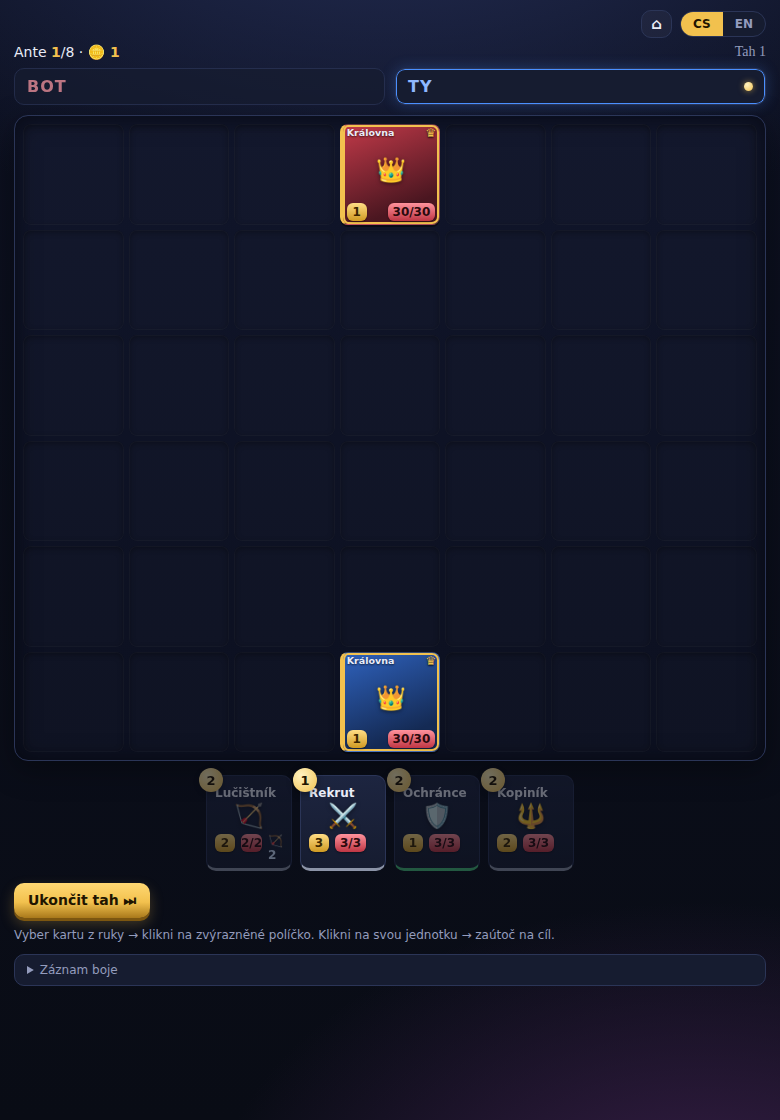
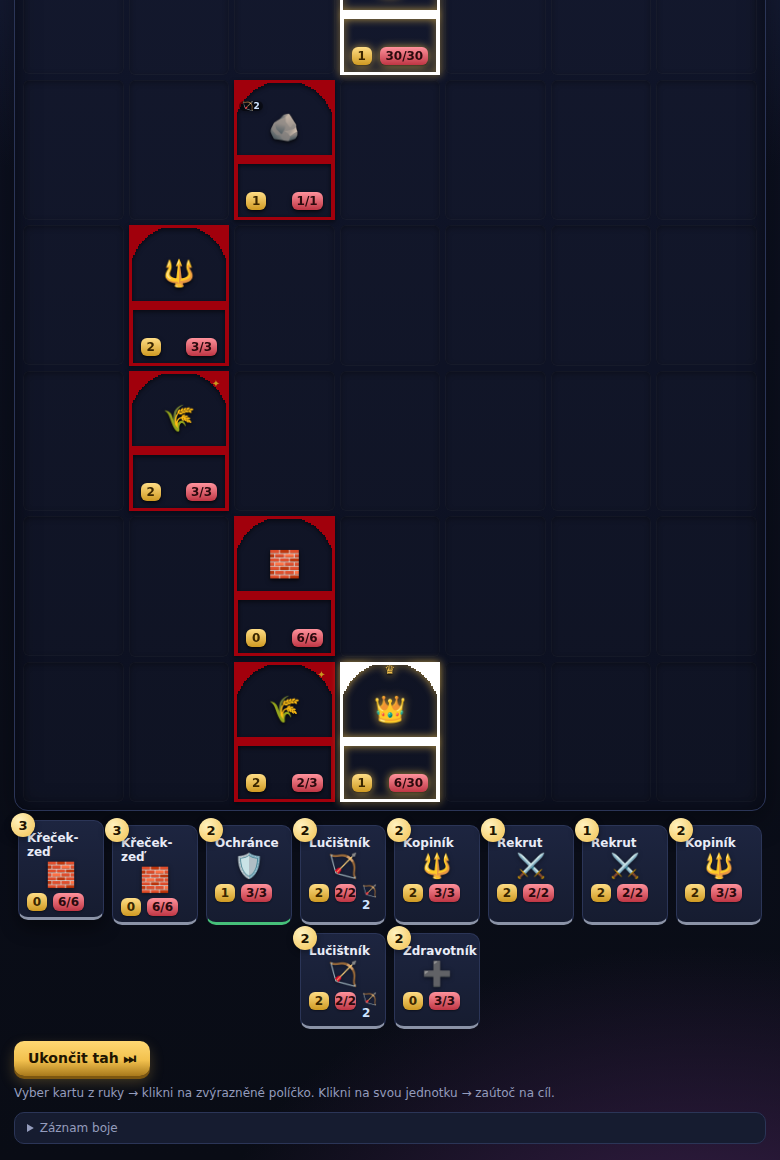
feat: pixel-art rámečky karet na desce (z assetů)
- src/ui/sprites.ts: nařezání spritesheetu (Modular_Fantasy_Cards) na
  jednotlivé rámečky za běhu přes canvas → responzivní + ostré (pixelated)
- Karty na desce používají obloukový pixel-art rámeček (modrý hráč, červený
  bot, zlatý Královna); art v okně, staty v panelu, jméno v tooltipu
- Buňky desky portrét (68/95), zvýraznění výběru/cíle přes drop-shadow
  (kopíruje tvar karty), záblesky zásah/léčení/akce jako glow
- Vite vloží PNG jako data URI → pořád jeden HTML soubor (~95 kB)

Claude-Session: https://claude.ai/code/session_01BAbEvVGZgQG9PMoEsfgnJW

Changed region(s): [[0.0, 0.0, 0.9846, 1.0], [0.0, 0.0312, 0.1538, 0.0938]]

diff --git a/src/style.css b/src/style.css
@@ -117,7 +117,7 @@ button:disabled { opacity: .4; cursor: not-allowed; }
   box-shadow: inset 0 2px 24px rgba(0,0,0,.5), 0 8px 30px rgba(0,0,0,.35);
 }
 .cell {
-  aspect-ratio: 1/1; min-height: 46px; border-radius: 8px;
+  aspect-ratio: 68/95; border-radius: 6px;
   background: rgba(255,255,255,.015);
   box-shadow: inset 0 0 0 1px rgba(255,255,255,.03), inset 0 2px 6px rgba(0,0,0,.35);
   display: flex; align-items: center; justify-content: center; position: relative;
@@ -128,23 +128,25 @@ button:disabled { opacity: .4; cursor: not-allowed; }
 
 /* ── karta na desce ── */
 .pc {
-  width: 100%; height: 100%; border-radius: 8px; padding: 3px 4px;
-  display: flex; flex-direction: column; justify-content: space-between;
-  border: 1px solid rgba(255,255,255,.14); border-left: 3px solid var(--rar, #888);
-  cursor: pointer; position: relative; overflow: hidden;
-  box-shadow: 0 2px 0 rgba(0,0,0,.45), inset 0 1px 0 rgba(255,255,255,.12);
+  width: 100%; height: 100%; padding: 0; position: relative; cursor: pointer;
+  background-repeat: no-repeat; background-size: 100% 100%; image-rendering: pixelated;
+  filter: drop-shadow(0 2px 2px rgba(0,0,0,.5));
 }
-.pc--a { background: linear-gradient(158deg, #2f62bd, #142a54 78%); }
-.pc--b { background: linear-gradient(158deg, #c23a49, #4a1620 78%); }
-.pc--queen { box-shadow: 0 2px 0 rgba(0,0,0,.45), inset 0 0 0 2px var(--gold); border-left-color: var(--gold); }
-.pc.is-sel { box-shadow: 0 0 0 3px var(--gold), 0 0 16px rgba(242,193,78,.6); z-index: 3; }
-.pc.is-tgt { box-shadow: 0 0 0 3px var(--b), 0 0 16px rgba(255,95,110,.6); animation: breathe 1s ease-in-out infinite; z-index: 3; }
-.pc.is-act { box-shadow: 0 0 0 3px #47d6ff, 0 0 16px rgba(71,214,255,.55); animation: breathe 1s ease-in-out infinite; z-index: 3; }
-.pc__name { font-weight: 700; font-size: 9.5px; line-height: 1.05; text-shadow: 0 1px 2px rgba(0,0,0,.6); }
-.pc__name .dot { color: var(--gold); margin-left: 2px; }
-.pc__art { flex: 1; min-height: 0; display: flex; align-items: center; justify-content: center; font-size: 24px; line-height: 1; filter: drop-shadow(0 1px 2px rgba(0,0,0,.55)); }
-.pc__foot { display: flex; justify-content: space-between; align-items: flex-end; font-size: 11px; }
-.crown { position: absolute; top: 1px; right: 3px; color: var(--gold); font-size: 12px; text-shadow: 0 1px 2px #000; }
+.pc--queen { filter: drop-shadow(0 0 4px rgba(242,193,78,.75)); }
+.pc.is-sel { filter: drop-shadow(0 0 3px #fff) drop-shadow(0 0 6px var(--gold)); z-index: 3; }
+.pc.is-tgt { filter: drop-shadow(0 0 5px var(--b)); animation: breathe 1s ease-in-out infinite; z-index: 3; }
+.pc.is-act { filter: drop-shadow(0 0 5px #47d6ff); animation: breathe 1s ease-in-out infinite; z-index: 3; }
+.pc__art {
+  position: absolute; left: 0; right: 0; top: 8%; height: 52%;
+  display: flex; align-items: center; justify-content: center;
+  font-size: 26px; line-height: 1; filter: drop-shadow(0 1px 1px rgba(0,0,0,.4));
+}
+.pc__abil { position: absolute; top: 5%; right: 9%; color: #c9971f; font-size: 10px; z-index: 2; }
+.pc__foot {
+  position: absolute; left: 12%; right: 12%; bottom: 7%;
+  display: flex; justify-content: space-between; align-items: center; font-size: 11px;
+}
+.crown { position: absolute; top: 1%; left: 50%; transform: translateX(-50%); color: var(--gold); font-size: 12px; text-shadow: 0 1px 2px #000; z-index: 2; }
 .atk, .hp {
   display: inline-flex; align-items: center; justify-content: center;
   min-width: 20px; height: 18px; padding: 0 5px; border-radius: 6px;
@@ -154,7 +156,7 @@ button:disabled { opacity: .4; cursor: not-allowed; }
 .atk.buffed { background: linear-gradient(180deg, #9ff0b0, #39b866); color: #052a12; box-shadow: 0 0 7px rgba(74,222,128,.7); }
 .hp { background: linear-gradient(180deg, #ff929c, #bf3644); color: #2a0a0d; }
 .rng { color: #cfe3ff; font-weight: 700; }
-.bdgs { position: absolute; top: 14px; left: 3px; display: flex; flex-direction: column; gap: 2px; }
+.bdgs { position: absolute; top: 15%; left: 5%; display: flex; flex-direction: column; gap: 2px; z-index: 2; }
 .bdg { font-size: 9px; font-weight: 700; background: rgba(0,0,0,.45); border-radius: 5px; padding: 0 3px; }
 .bdg.shield { color: #9fd0ff; } .bdg.count { color: #ffd27a; } .bdg.rng { color: #cfe3ff; }
 
@@ -275,21 +277,18 @@ button.mini.up { background: #1c4a2e; border-color: #2e6b45; }
   0% { opacity: 0; transform: translateY(-45%) scale(.5) rotate(-8deg); }
   100% { opacity: 1; transform: none; }
 }
-.pc.hit { animation: hitShake .3s; }
+.pc.hit { animation: hitShake .3s, hitGlow .4s; }
 @keyframes hitShake {
   0%, 100% { transform: translateX(0); }
   20% { transform: translateX(-3px); } 40% { transform: translateX(3px); }
   60% { transform: translateX(-2px); } 80% { transform: translateX(2px); }
 }
-.pc.hit::after, .pc.healed::after {
-  content: ''; position: absolute; inset: 0; border-radius: inherit; pointer-events: none;
-  animation: flashFade .4s forwards;
-}
-.pc.hit::after { background: rgba(255,60,70,.55); }
-.pc.healed::after { background: rgba(80,230,140,.45); }
-@keyframes flashFade { from { opacity: 1; } to { opacity: 0; } }
-.pc.acting { animation: lunge .34s ease; box-shadow: 0 0 0 3px var(--gold), 0 0 18px rgba(242,193,78,.7) !important; z-index: 5; }
+@keyframes hitGlow { 0% { filter: drop-shadow(0 0 9px #ff2030) brightness(1.6); } 100% { filter: drop-shadow(0 2px 2px rgba(0,0,0,.5)); } }
+.pc.healed { animation: healGlow .5s; }
+@keyframes healGlow { 0% { filter: drop-shadow(0 0 9px #40e080) brightness(1.4); } 100% { filter: drop-shadow(0 2px 2px rgba(0,0,0,.5)); } }
+.pc.acting { animation: lunge .34s ease, actGlow .34s ease; z-index: 5; }
 @keyframes lunge { 0% { transform: scale(1); } 40% { transform: scale(1.16); } 100% { transform: scale(1); } }
+@keyframes actGlow { 0%, 100% { filter: drop-shadow(0 2px 2px rgba(0,0,0,.5)); } 50% { filter: drop-shadow(0 0 9px var(--gold)); } }
 
 @media (max-width: 560px) {
   .logo--big { font-size: 44px; }

diff --git a/src/main.ts b/src/main.ts
@@ -4,6 +4,7 @@ import { GameEngine, key } from './engine/index.ts';
 import { stepBot } from './ai/bot.ts';
 import { LIBRARY } from './content/cards.ts';
 import { describeCard, describeDef, describeAbility } from './ui/describe.ts';
+import { initSprites, frameFor } from './ui/sprites.ts';
 import { t, cardName, formatLog, getLang, setLang, type Lang } from './i18n/index.ts';
 import {
   createRun, makeBattleConfig, startBattle, onBattleWin, onBattleLoss,
@@ -141,9 +142,12 @@ function pieceCard(c: CardInstance, extra: string): string {
   const abil = c.abilities.length ? '<span class="dot">✦</span>' : '';
   const title = describeCard(c) || cardName(c.defId);
   const atkCls = c.attack > c.baseAttack ? 'atk buffed' : 'atk';
-  return `<div class="${cls}" data-uid="${c.uid}" title="${escapeAttr(cardName(c.defId) + (title ? ' — ' + title : ''))}">
+  const frame = frameFor(c.owner, c.isQueen);
+  const bg = frame ? `style="background-image:url(${frame})"` : '';
+  // jméno je v tooltipu, na desce ukazujeme jen art + staty (ať to není přeplácané)
+  return `<div class="${cls}" data-uid="${c.uid}" ${bg} title="${escapeAttr(cardName(c.defId) + (title ? ' — ' + title : ''))}">
       ${c.isQueen ? '<span class="crown">♛</span>' : ''}
-      <div class="pc__name">${escapeHtml(cardName(c.defId))}${abil}</div>
+      ${abil ? '<span class="pc__abil">✦</span>' : ''}
       <div class="pc__art">${cardArt(c.defId)}</div>
       ${badges(c)}
       <div class="pc__foot"><span class="${atkCls}">${c.attack}</span><span class="hp">${Math.max(0, c.hp)}/${c.maxHp}</span></div>
@@ -495,4 +499,5 @@ function escapeAttr(s: string): string {
   return escapeHtml(s).replace(/"/g, '&quot;');
 }
 
-render();
+// nejdřív nařež pixel-art rámečky, pak vykresli
+initSprites().finally(render);

diff --git a/src/ui/sprites.ts b/src/ui/sprites.ts
@@ -1,0 +1,47 @@
+import framesUrl from '../../assets/Modular_Fantasy_Cards_Spritesheet.png';
+import type { PlayerId } from '../engine/index.ts';
+
+// Nařezání spritesheetu na jednotlivé PNG (data URI) za běhu přes canvas.
+// Díky tomu jde sprite roztáhnout responzivně (background-size:100% 100%)
+// a zůstane ostrý (image-rendering: pixelated).
+
+const FW = 68;
+const FH = 95;
+
+// souřadnice obloukových rámečků ve sheetu (změřeno analyzátorem)
+const FRAME_SRC: Record<string, { x: number; y: number }> = {
+  blue: { x: 4, y: 4 },
+  red: { x: 156, y: 4 },
+  gold: { x: 308, y: 210 },
+  green: { x: 308, y: 4 },
+};
+
+const frames: Record<string, string> = {};
+
+export function initSprites(): Promise<void> {
+  return new Promise((resolve) => {
+    const img = new Image();
+    img.onload = () => {
+      for (const [name, s] of Object.entries(FRAME_SRC)) {
+        const cv = document.createElement('canvas');
+        cv.width = FW;
+        cv.height = FH;
+        const ctx = cv.getContext('2d');
+        if (ctx) {
+          ctx.imageSmoothingEnabled = false;
+          ctx.drawImage(img, s.x, s.y, FW, FH, 0, 0, FW, FH);
+          frames[name] = cv.toDataURL();
+        }
+      }
+      resolve();
+    };
+    img.onerror = () => resolve();
+    img.src = framesUrl;
+  });
+}
+
+/** Rámeček karty podle vlastníka (Královna dostane zlatý). */
+export function frameFor(owner: PlayerId, isQueen: boolean): string {
+  if (isQueen) return frames['gold'] ?? '';
+  return owner === 'A' ? (frames['blue'] ?? '') : (frames['red'] ?? '');
+}
